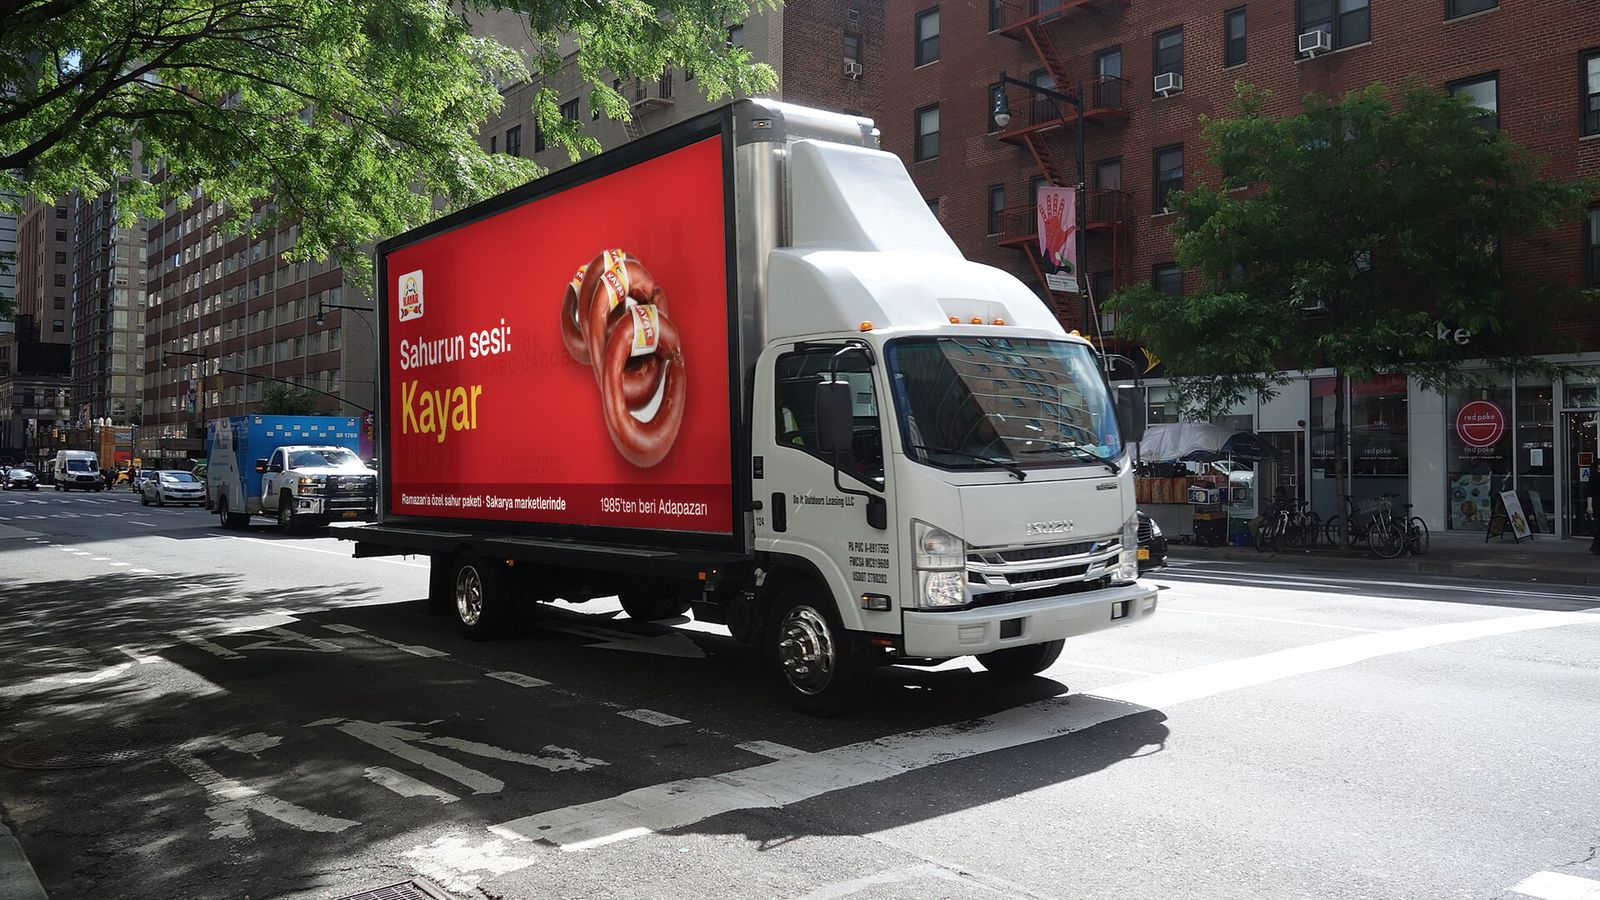
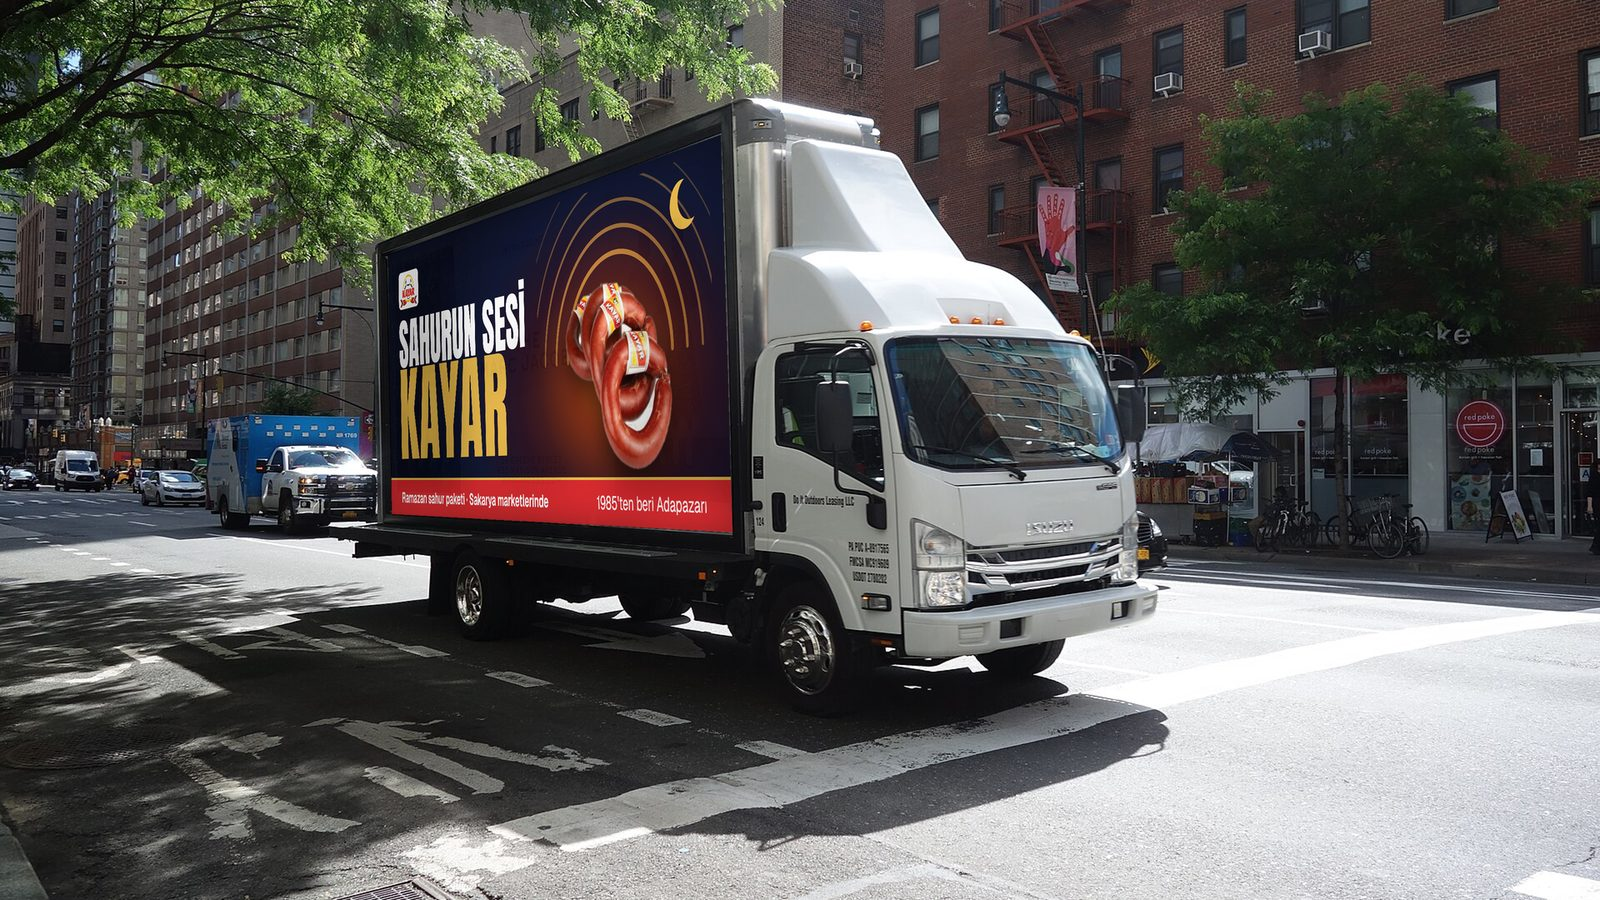
Kayar çalışma sayfası: güçlü reklam dili, ürün üstünde kuşak, yeni site mockup'ı, adım adım nasıl yapılır

Changed region(s): [[0.2188, 0.1556, 0.4688, 0.5911]]

diff --git a/static/calisma/kayar-ty0gwr/index.html b/static/calisma/kayar-ty0gwr/index.html
@@ -138,7 +138,22 @@ main .wrap{padding-block:16px}
 .credit{font-size:13px;color:var(--mute);padding-bottom:40px;line-height:1.6}
 .credit a{color:inherit}
 
+.ne{margin-top:14px;font-size:21px;color:var(--text)}
+.how{list-style:none;padding:0;margin:20px 0 0;display:grid;gap:10px;counter-reset:h;border-top:1px solid var(--line);padding-top:18px}
+.how::before{content:"Nasıl yapılır?";font-size:14px;font-weight:600;letter-spacing:.12em;text-transform:uppercase;color:var(--mute)}
+.how li{counter-increment:h;display:grid;grid-template-columns:34px 1fr;gap:12px;align-items:center;padding-left:0}
+.how li::before{position:static;background:none;content:counter(h);width:34px;height:34px;border-radius:50%;border:1.5px solid var(--ink);display:grid;place-items:center;font-weight:600;font-size:16px;color:var(--ink)}
+.note{margin-top:14px;font-size:16px;color:var(--mute)}
+.cap{font-size:15px;color:var(--mute)}
+.bad{list-style:none;padding:0;margin:14px 0 0;display:grid;gap:8px}
+.bad li{padding-left:30px;position:relative}
+.bad li::before{content:"✕";position:absolute;left:0;top:0;width:auto;height:auto;background:none;color:#b04332;font-weight:600}
+.step.wide{grid-template-columns:minmax(0,4fr) minmax(0,8fr)}
+.ba{display:grid;gap:18px}
+.ba .old{max-width:62%}
 @media (max-width:820px){
+  .step.wide{grid-template-columns:1fr}
+  .ba .old{max-width:100%}
   body{font-size:19px}
   .step{grid-template-columns:1fr;gap:24px;padding:40px 0}
   .step:nth-of-type(even) .txt{order:0}
@@ -178,7 +193,7 @@ main .wrap{padding-block:16px}
     <div class="facts">
       <div><p class="n">8 Şubat</p><p>Ramazan başlıyor (Diyanet takvimi)</p></div>
       <div><p class="n">2 hafta</p><p>Sucuğun yıl içindeki en güçlü dönemi</p></div>
-      <div><p class="n">Tek fikir</p><p>“Sahurun sesi: Kayar” her yerde</p></div>
+      <div><p class="n">Tek fikir</p><p>“Sahurun sesi: Kayar” ambalajdan sokağa</p></div>
     </div>
     <figure class="hero" style="margin:0">
       <img src="g/arac.jpg" alt="Kayar reklamlı yürüyen reklam aracı, örnek görünüm" width="1600" height="900">
@@ -192,50 +207,53 @@ main .wrap{padding-block:16px}
 
   <div class="intro">
     <p class="label">Ne yapacağız?</p>
-    <h2>Ambalajdan sokağa 7 adım</h2>
-    <p>Reklamı gören kişi ürünü rafta hemen tanısın, Sakarya'nın her köşesinde aynı mesajı görsün.</p>
+    <h2>7 adım, her biri nasıl yapılır</h2>
+    <p>Her adımda önce ne olduğu, sonra nasıl yapılacağı. Görseller örnek tasarımdır.</p>
   </div>
 
   <section class="step">
     <div class="txt">
       <p class="no"><b>1</b>AMBALAJ</p>
-      <h3>Ramazan'a özel kuşak</h3>
-      <ul>
-        <li>Bugünkü etiketin üstüne sarılan kırmızı-sarı bant</li>
-        <li>Ürün adı uzaktan okunur, “1985'ten beri Adapazarı” mührü</li>
-        <li>Kare kod (QR): okutan çekilişe ve tariflere ulaşır</li>
-      </ul>
+      <h3>Ramazan kuşağı</h3>
+      <p class="ne">Bugünkü etiketin üstüne Ramazan boyunca lacivert-altın bir kuşak sarılır. Rafta ilk göze çarpan Kayar olur.</p>
+      <ol class="how">
+        <li>Etiketin ölçüsü alınır, kuşak tasarlanır</li>
+        <li>Matbaada basılır (Aralık–Ocak)</li>
+        <li>Üretimde etiketin üstüne sarılır</li>
+      </ol>
     </div>
     <div class="vis">
-      <div class="pair">
-        <figure class="vis"><span class="tag new">Ramazan kuşağı</span><img src="g/kusak.jpg" alt="Ramazan kuşağı tasarımı" width="1500" height="300" loading="lazy"><figcaption>Bant tasarımı, ölçü etikete göre ayarlanır</figcaption></figure>
-        <figure class="vis old"><img src="g/etiket.jpg" alt="Bugünkü Kayar etiketi" width="500" height="500" loading="lazy"><figcaption><span class="tag">Bugün</span><br>Bugünkü etiket aynen kalır, kuşak Ramazan boyunca üstüne sarılır.</figcaption></figure>
-      </div>
+      <img src="g/kusak_urun.jpg" alt="Ramazan kuşağı sarılmış Kayar sucuk, örnek görünüm" width="1000" height="850" loading="lazy">
+      <img src="g/kusak.jpg" alt="Ramazan kuşağı düz tasarım" width="1600" height="360" loading="lazy">
+      <p class="cap">Örnek görünüm · Kuşak ve düz tasarımı (kare kod çekilişe gider)</p>
     </div>
   </section>
 
   <section class="step">
     <div class="txt">
       <p class="no"><b>2</b>MARKET</p>
-      <h3>Rafta ve kapıda Kayar</h3>
-      <ul>
-        <li>Market girişine ışıklı pano veya A3 afiş</li>
-        <li>Rafa “Ramazan sahur paketi” etiketi</li>
-        <li>Sitenizde yazan 600'e yakın satış noktası: Milkan, Mopaş, Şenmar, Karaul, Kraas, Sakmar, Esmer, Özpaş, Geltat</li>
-      </ul>
+      <h3>Market kapısı ve raf</h3>
+      <p class="ne">Satış noktalarında ışıklı pano, afiş ve raf etiketi. Reklamı gören, rafta Kayar'ı hemen bulur.</p>
+      <ol class="how">
+        <li>Güncel satış noktası listesi sizden alınır</li>
+        <li>Afiş ve raf etiketleri basılır</li>
+        <li>25–31 Ocak'ta marketlere dağıtılır</li>
+      </ol>
+      <p class="note">Sitenizde yazan marketler: Milkan, Mopaş, Şenmar, Karaul, Kraas, Sakmar, Esmer, Özpaş, Geltat</p>
     </div>
-    <figure class="vis"><img src="g/pano.jpg" alt="Market önü ışıklı pano, örnek görünüm" width="1000" height="1563" loading="lazy" style="width:100%;height:620px;object-fit:cover;object-position:center 20%"><figcaption>Örnek görünüm · Market önü ışıklı pano</figcaption></figure>
+    <figure class="vis"><img src="g/pano.jpg" alt="Market önü ışıklı pano, örnek görünüm" width="1000" height="1563" loading="lazy" style="width:100%;height:640px;object-fit:cover;object-position:center 15%"><figcaption>Örnek görünüm · Market önü ışıklı pano</figcaption></figure>
   </section>
 
   <section class="step">
     <div class="txt">
       <p class="no"><b>3</b>TELEFON</p>
-      <h3>Instagram ve Facebook, yalnızca Sakarya</h3>
-      <ul>
-        <li>Reklam sadece Sakarya'daki telefonlara gider</li>
-        <li>Kısa tarif videoları: “3 dakikada yumurtalı sucuk”</li>
-        <li>Sahur saatinde (gece 22:00–03:00) daha sık</li>
-      </ul>
+      <h3>Instagram ve Facebook</h3>
+      <p class="ne">Reklam yalnızca Sakarya'daki telefonlara gider. Sahur saatinde daha sık çıkar.</p>
+      <ol class="how">
+        <li>Kısa tarif videosu çekilir (Ocak)</li>
+        <li>Reklam hesabı Sakarya'ya göre kurulur</li>
+        <li>25 Ocak'ta başlar, gece 22:00–03:00 artar</li>
+      </ol>
     </div>
     <div class="phones">
       <div class="phone"><div class="scr"><img src="g/story.jpg" alt="Instagram hikâye örneği" width="540" height="960" loading="lazy"></div></div>
@@ -251,17 +269,19 @@ main .wrap{padding-block:16px}
     <div class="txt">
       <p class="no"><b>4</b>YÜRÜYEN ARAÇ</p>
       <h3>Kalabalığın olduğu yerde</h3>
-      <ul>
-        <li>Çarşı, Uzunçarşı, semt pazarları, market otoparkları</li>
-        <li>Cuma namazı çıkışları: 5 ve 12 Şubat</li>
-        <li>Ramazan haftası iftar öncesi (15:00–18:00) market ve fırın çevresi</li>
-      </ul>
+      <p class="ne">Ekranlı araç iki hafta boyunca çarşı, pazar ve market çevresinde dolaşır.</p>
+      <ol class="how">
+        <li>Araç firmasıyla 2 haftalık sözleşme (Aralık)</li>
+        <li>Tasarım araç ekranının ölçüsüne göre hazırlanır</li>
+        <li>Her gün rota ve gösterim raporu istenir</li>
+      </ol>
     </div>
     <div class="panel">
-      <p class="label">Araç firmasından istenecekler</p>
-      <div class="row"><b>Rota</b><span>Her gün GPS rota raporu</span></div>
-      <div class="row"><b>Gösterim</b><span>Günlük gösterim kaydı (günde 200)</span></div>
-      <div class="row"><b>Hava</b><span>Yağmurlu gün için telafi günü</span></div>
+      <p class="label">Güzergâh</p>
+      <div class="row"><b>Her gün</b><span>Çarşı, Uzunçarşı, semt pazarları, market otoparkları</span></div>
+      <div class="row"><b>Cuma</b><span>Namaz çıkışları: 5 ve 12 Şubat</span></div>
+      <div class="row"><b>İftar önü</b><span>15:00–18:00 market ve fırın çevresi</span></div>
+      <div class="row"><b>Yağmur</b><span>Sözleşmede telafi günü</span></div>
     </div>
   </section>
 
@@ -269,11 +289,12 @@ main .wrap{padding-block:16px}
     <div class="txt">
       <p class="no"><b>5</b>BÜYÜK EKRAN</p>
       <h3>Serdivan AVM karşısı</h3>
-      <ul>
-        <li>Şehrin en işlek yollarından biri</li>
-        <li>10–15 saniye, en fazla 6–7 kelime</li>
-        <li>Büyük ürün, slogan, logo; trafikte bir bakışta okunur</li>
-      </ul>
+      <p class="ne">Şehrin en işlek yolunda 10–15 saniyelik kısa reklam. En fazla 6–7 kelime.</p>
+      <ol class="how">
+        <li>Fiyat ve günlük gösterim sayısı teklifi alınır</li>
+        <li>Kısa ekran videosu hazırlanır</li>
+        <li>1–15 Şubat yayında; firma fotoğrafla kanıtlar</li>
+      </ol>
     </div>
     <figure class="vis"><img src="g/billboard.jpg" alt="Büyük ekranda Kayar reklamı, örnek görünüm" width="1600" height="1000" loading="lazy"><figcaption>Örnek görünüm · Büyük ekran / billboard</figcaption></figure>
   </section>
@@ -282,32 +303,39 @@ main .wrap{padding-block:16px}
     <div class="txt">
       <p class="no"><b>6</b>KAMPANYA</p>
       <h3>Tadım günü ve çekiliş</h3>
-      <ul>
-        <li><b>7 Şubat akşamı</b>, ilk sahurdan önce bir market önünde tadım standı</li>
-        <li>Kuşaktaki ve afişteki kare kodu okut, takip et, <b>30 gün sucuk kazan</b></li>
+      <p class="ne">İlk sahurdan önce tadım, kuşaktaki kare kodla çekiliş: “30 gün sucuk kazan”.</p>
+      <ol class="how">
+        <li>Sahur paketinin içeriği ve fiyatı sizden</li>
         <li>Çekiliş için yasal izin alınır</li>
-      </ul>
+        <li>7 Şubat akşamı bir market önünde tadım standı</li>
+      </ol>
     </div>
     <div class="panel">
       <p class="label">Ramazan sahur paketi</p>
-      <p style="font-size:24px;color:var(--ink);font-weight:600;letter-spacing:-.02em;line-height:1.25">Sucuk + kavurma, Ramazan'a özel fiyatla tek pakette</p>
+      <p style="font-size:26px;color:var(--ink);font-weight:600;letter-spacing:-.02em;line-height:1.2">Sucuk + kavurma, Ramazan'a özel fiyatla tek pakette</p>
       <p style="color:var(--mute)">İçeriği ve fiyatı sizin kararınız; tasarımı ve duyurusunu biz yaparız.</p>
     </div>
   </section>
 
-  <section class="step">
+  <section class="step wide">
     <div class="txt">
-      <p class="no"><b>7</b>İNTERNET</p>
-      <h3>Site ve Google düzelir</h3>
-      <ul>
-        <li>Sitenizde ürünler bugün “Tükendi” görünüyor; düzeltilir</li>
-        <li>“Nereden alınır?” haritası: en yakın market bir dokunuşta</li>
-        <li>Google Haritalar kaydı ve aynı imza her yerde: <b>Kayar Sucukları · 1985 · Adapazarı</b></li>
+      <p class="no"><b>7</b>İNTERNET SİTESİ</p>
+      <h3>Site yenilenmeli</h3>
+      <p class="ne">Reklamı gören kişi önce sitenize bakar. Bugünkü site bu yükü taşıyamaz:</p>
+      <ul class="bad">
+        <li>Bütün ürünler “Tükendi”, fiyatlar 0,00 TL görünüyor</li>
+        <li>Satış noktaları yalnızca resim; aranamıyor, haritada yok</li>
+        <li>Ürün fotoğraflarında desenli arka plan, telefonda küçük</li>
       </ul>
+      <ol class="how">
+        <li>Ürün ve satış noktası bilgileri sizden alınır</li>
+        <li>Yeni site: telefonda kolay, “Nereden alınır?” haritası</li>
+        <li>Google Haritalar kaydı; Ocak sonuna kadar yayında</li>
+      </ol>
     </div>
-    <div class="panel">
-      <p class="label">Neden önemli?</p>
-      <p style="color:var(--ink)">Haziran 2026'da isim benzerliği yüzünden başka bir firmayla karıştırıldınız. Kampanyada tek ve net imza kullanılırsa bu karışıklık biter.</p>
+    <div class="ba">
+      <figure class="vis old"><span class="tag">Bugün</span><img src="g/site_bugun.jpg" alt="Bugünkü kayarsucuk.com.tr" width="960" height="600" loading="lazy"></figure>
+      <figure class="vis"><span class="tag new">Yeni site</span><img src="g/site_yeni.jpg" alt="Yeni Kayar sitesi tasarımı, bilgisayar ve telefon" width="1600" height="947" loading="lazy" style="border:0"><figcaption>Örnek tasarım · Bilgisayar ve telefon</figcaption></figure>
     </div>
   </section>
 
